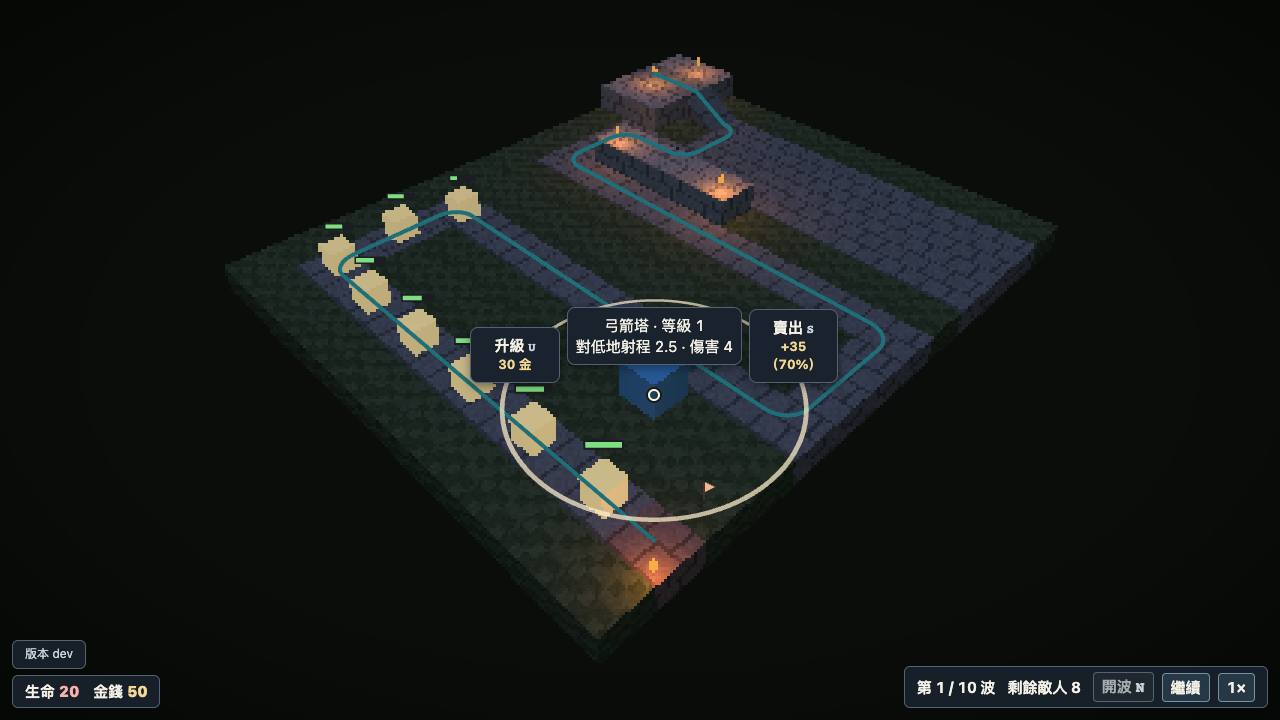
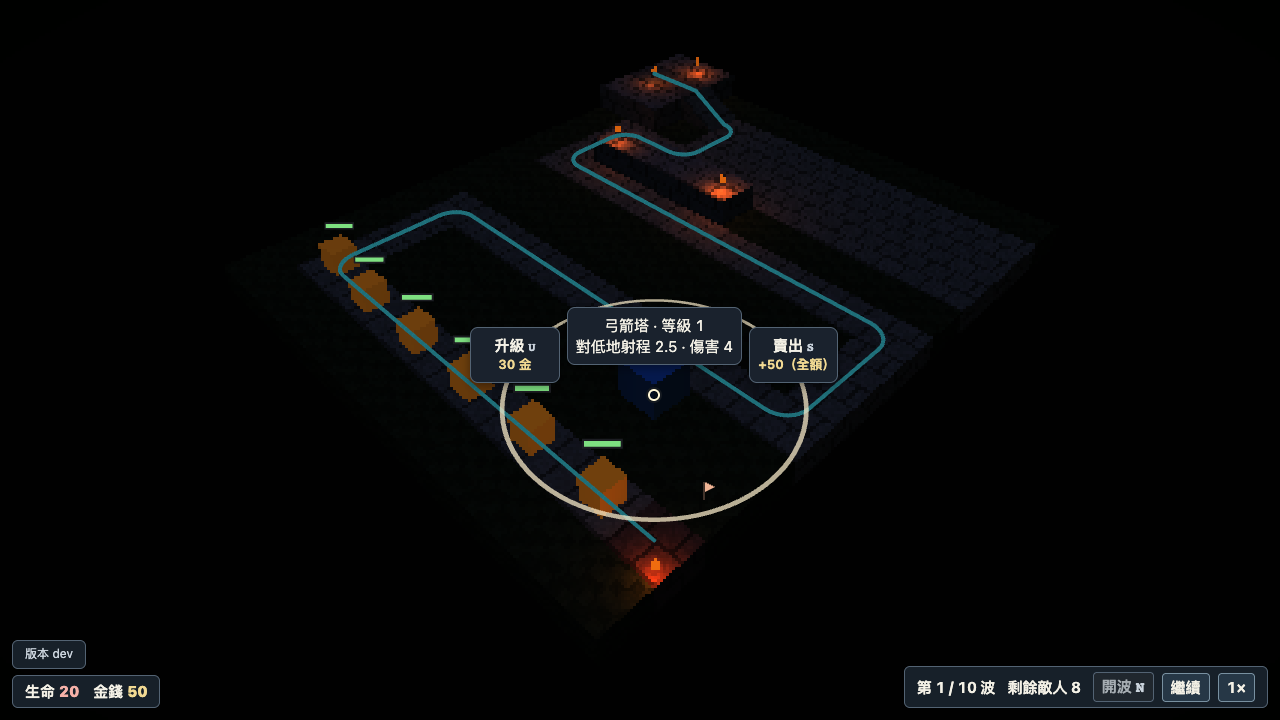
fix: [ render ] 校正世界像素格與冷暗色調
以 3 CSS px 取樣世界層，裁切右側和底部的部分像素格，讓全解析度覆蓋層沿用原投影。恢復原型 D 的世界合成曲線並微調石地與骷髏兵，讓 1280×720 截圖貼近目標。敵人外觀共用發光色表，波次提示與敗北原因採用詞彙表名稱。

通過 lint、型別檢查、規則與平衡測試、production build 及四項瀏覽器測試。像素格與亮度回歸涵蓋 1280×721 的 DPR 1、2。關閉閃白混色時，受擊回歸測試會失敗。

Changed region(s): [[0.1562, 0.0611, 0.8438, 0.8861]]

diff --git a/src/render/pixel-renderer.ts b/src/render/pixel-renderer.ts
@@ -1,5 +1,6 @@
 import {
   type Camera,
+  Matrix4,
   Mesh,
   NearestFilter,
   OrthographicCamera,
@@ -22,10 +23,19 @@ export function createPixelRenderer(renderer: WebGLRenderer, scene: Scene, camer
     colorSpace: SRGBColorSpace,
   });
   const worldSize = new Vector2(1, 1);
+  const cssSize = new Vector2(1, 1);
+  const worldFrame = new Matrix4();
+  const projection = new Matrix4();
+  const inverseProjection = new Matrix4();
   const screen = new Mesh(
     new PlaneGeometry(2, 2),
     new ShaderMaterial({
-      uniforms: { world: { value: world.texture }, worldSize: { value: worldSize } },
+      uniforms: {
+        world: { value: world.texture },
+        worldSize: { value: worldSize },
+        cssSize: { value: cssSize },
+        pixelSize: { value: PIXEL_SIZE },
+      },
       vertexShader: `
         varying vec2 screenUv;
         void main() {
@@ -36,14 +46,18 @@ export function createPixelRenderer(renderer: WebGLRenderer, scene: Scene, camer
       fragmentShader: `
         uniform sampler2D world;
         uniform vec2 worldSize;
+        uniform vec2 cssSize;
+        uniform float pixelSize;
         varying vec2 screenUv;
         void main() {
           // Evaluate the vignette at the world texel center so it shares the pixel grid.
-          vec2 pixelUv = (floor(screenUv * worldSize) + 0.5) / worldSize;
+          vec2 cssPosition = vec2(screenUv.x, 1.0 - screenUv.y) * cssSize;
+          vec2 pixelUv = (floor(cssPosition / pixelSize) + 0.5) / worldSize;
+          pixelUv.y = 1.0 - pixelUv.y;
           vec4 color = texture2D(world, pixelUv);
           float edge = smoothstep(0.35, 0.85, distance(pixelUv, vec2(0.5)));
+          // Variant D uses linear world values as display values for its dark grade.
           gl_FragColor = vec4(color.rgb * (1.0 - edge * 0.55), color.a);
-          #include <colorspace_fragment>
         }
       `,
       depthTest: false,
@@ -54,10 +68,17 @@ export function createPixelRenderer(renderer: WebGLRenderer, scene: Scene, camer
   const screenCamera = new OrthographicCamera();
 
   function resize(cssWidth: number, cssHeight: number): void {
-    const width = Math.max(1, Math.floor(cssWidth / PIXEL_SIZE));
-    const height = Math.max(1, Math.floor(cssHeight / PIXEL_SIZE));
+    cssSize.set(Math.max(1, cssWidth), Math.max(1, cssHeight));
+    const width = Math.ceil(cssSize.x / PIXEL_SIZE);
+    const height = Math.ceil(cssSize.y / PIXEL_SIZE);
     worldSize.set(width, height);
     world.setSize(width, height);
+
+    // Pad the right and bottom to whole texels. Keep the visible projection aligned
+    // with the overlay camera when the blit crops those partial blocks.
+    const scaleX = cssSize.x / (width * PIXEL_SIZE);
+    const scaleY = cssSize.y / (height * PIXEL_SIZE);
+    worldFrame.makeScale(scaleX, scaleY, 1).setPosition(scaleX - 1, 1 - scaleY, 0);
   }
 
   function render(): void {
@@ -68,7 +89,16 @@ export function createPixelRenderer(renderer: WebGLRenderer, scene: Scene, camer
     try {
       camera.layers.set(WORLD_LAYER);
       renderer.setRenderTarget(world);
-      renderer.render(scene, camera);
+      projection.copy(camera.projectionMatrix);
+      inverseProjection.copy(camera.projectionMatrixInverse);
+      camera.projectionMatrix.premultiply(worldFrame);
+      camera.projectionMatrixInverse.copy(camera.projectionMatrix).invert();
+      try {
+        renderer.render(scene, camera);
+      } finally {
+        camera.projectionMatrix.copy(projection);
+        camera.projectionMatrixInverse.copy(inverseProjection);
+      }
 
       renderer.setRenderTarget(null);
       renderer.render(screen, screenCamera);

diff --git a/tests/pixel-rendering.test.ts b/tests/pixel-rendering.test.ts
@@ -2,14 +2,14 @@ import { expect, test } from '@playwright/test';
 
 for (const dpr of [1, 2]) {
   test.describe(`DPR ${dpr}`, () => {
-    test.use({ deviceScaleFactor: dpr, viewport: { width: 1200, height: 720 } });
+    test.use({ deviceScaleFactor: dpr, viewport: { width: 1280, height: 721 } });
 
-    test('renders the world on a 3 CSS pixel grid', async ({ page }) => {
+    test('renders the cool, dark world on a 3 CSS pixel grid', async ({ page }) => {
       await page.goto('./');
       await page.getByRole('button', { name: '開始遊戲' }).click();
 
-      // The left edge of the board crosses this region without any overlay geometry.
-      const screenshot = await page.screenshot({ clip: { x: 180, y: 240, width: 60, height: 90 } });
+      // Sample the high platform where no overlay geometry crosses it.
+      const screenshot = await page.screenshot({ clip: { x: 840, y: 204, width: 60, height: 30 } });
       const sample = await page.evaluate(
         async ({ png, blockSize }) => {
           const image = await createImageBitmap(
@@ -20,27 +20,41 @@ for (const dpr of [1, 2]) {
           if (context === null) throw new Error('Could not read the game screenshot');
           context.drawImage(image, 0, 0);
           image.close();
-          const pixels = new Uint32Array(context.getImageData(0, 0, width, height).data.buffer);
+          const { data } = context.getImageData(0, 0, width, height);
+          const pixels = new Uint32Array(data.buffer);
+          const luminance: number[] = [];
           const colors = new Set<number>();
           let nonUniformPixels = 0;
           for (let y = 0; y < height; y++) {
             const blockY = y - (y % blockSize);
             for (let x = 0; x < width; x++) {
               const blockX = x - (x % blockSize);
-              const color = pixels[y * width + x] ?? 0;
+              const index = y * width + x;
+              const color = pixels[index] ?? 0;
+              const offset = index * 4;
+              luminance.push(
+                0.2126 * (data[offset] ?? 0) +
+                  0.7152 * (data[offset + 1] ?? 0) +
+                  0.0722 * (data[offset + 2] ?? 0),
+              );
               colors.add(color);
               if (color !== pixels[blockY * width + blockX]) nonUniformPixels++;
             }
           }
-          return { colors: colors.size, nonUniformPixels, width, height };
+          luminance.sort((a, b) => a - b);
+          const medianLuminance = luminance[Math.floor(luminance.length / 2)] ?? 0;
+          return { colors: colors.size, nonUniformPixels, width, height, medianLuminance };
         },
         { png: [...screenshot], blockSize: 3 * dpr },
       );
 
       expect(sample.width).toBe(60 * dpr);
-      expect(sample.height).toBe(90 * dpr);
+      expect(sample.height).toBe(30 * dpr);
       expect(sample.colors).toBeGreaterThanOrEqual(3);
       expect(sample.nonUniformPixels).toBe(0);
+      // Variant D's reference platform has a median luminance of about 17 out of 255.
+      expect(sample.medianLuminance).toBeGreaterThan(8);
+      expect(sample.medianLuminance).toBeLessThan(30);
     });
   });
 }

diff --git a/src/render/enemies.ts b/src/render/enemies.ts
@@ -33,23 +33,18 @@ import { LAYER_HEIGHT } from './terrain';
 
 interface Look {
   readonly size: number;
+  readonly glowColor: number;
   readonly round?: true;
   readonly cornerCut?: number;
 }
 
-const LOOKS: Readonly<Record<string, Look>> = {
-  grunt: { size: 0.5 },
-  runner: { size: 0.4 },
-  tank: { size: 0.8, cornerCut: 0.1 },
-  boss: { size: 1, round: true },
-};
-const DEFAULT_LOOK: Look = { size: 0.5 };
-const GLOW_COLORS: ReadonlyMap<string, number> = new Map([
-  ['grunt', 0xffe7a4],
-  ['runner', 0xb5ec69],
-  ['tank', 0xffad73],
-  ['boss', 0xf37b55],
+const LOOKS: ReadonlyMap<string, Look> = new Map([
+  ['grunt', { size: 0.5, glowColor: 0xe0ac4f }],
+  ['runner', { size: 0.4, glowColor: 0xb5ec69 }],
+  ['tank', { size: 0.8, glowColor: 0xffad73, cornerCut: 0.1 }],
+  ['boss', { size: 1, glowColor: 0xf37b55, round: true }],
 ]);
+const DEFAULT_LOOK: Look = { size: 0.5, glowColor: 0xbbbbbb };
 const GLOW_INTENSITY = 0.55;
 const WHITE = new Color(0xffffff);
 const UP = new Vector3(0, 1, 0);
@@ -58,11 +53,11 @@ const BAR_HEIGHT = 0.14;
 const BAR_GAP = 0.08;
 
 function enemyLook(kind: string): Look {
-  return LOOKS[kind] ?? DEFAULT_LOOK;
+  return LOOKS.get(kind) ?? DEFAULT_LOOK;
 }
 
 export function enemyGlowColor(kind: string): number {
-  return GLOW_COLORS.get(kind) ?? 0xbbbbbb;
+  return enemyLook(kind).glowColor;
 }
 
 function enemyGeometry({ size, cornerCut, round }: Look): BufferGeometry {
@@ -293,7 +288,7 @@ export function createEnemyLayer(camera: Camera): EnemyLayer {
       const look = enemyLook(enemy.kind);
       const view = viewFor(enemy.id, look);
       const flash = hitFlash?.(enemy.id) ?? 0;
-      const glow = enemyGlowColor(enemy.kind);
+      const glow = look.glowColor;
       view.body.material.color.setHex(glow).multiplyScalar(0.36).lerp(WHITE, flash);
       view.body.material.emissive.setHex(glow).lerp(WHITE, flash);
       view.body.material.emissiveIntensity = GLOW_INTENSITY;

diff --git a/src/render/enemies.test.ts b/src/render/enemies.test.ts
@@ -1,4 +1,4 @@
-import { Mesh, PerspectiveCamera, Vector3 } from 'three';
+import { Mesh, MeshLambertMaterial, PerspectiveCamera, Vector3 } from 'three';
 import { expect, it } from 'vitest';
 import { level } from '../content/level';
 import {
@@ -155,13 +155,26 @@ it('sets the bottom of the enemy on the ramp at its rounded position', () => {
 it('keeps a flashing enemy in the world and both parts of its health bar on the overlay', () => {
   const state = start(['S=G']);
   const layer = createEnemyLayer(new PerspectiveCamera());
-  layer.update(state, state, 1, () => 0.5);
+  layer.update(state, state, 1);
 
   const [body, bar] = layer.group.children[0]?.children ?? [];
-  if (!(body instanceof Mesh)) throw new Error('Missing flashing enemy');
-  expect(body.material.emissiveIntensity).toBeGreaterThan(0);
+  if (!(body instanceof Mesh) || !(body.material instanceof MeshLambertMaterial)) {
+    throw new Error('Missing flashing enemy');
+  }
+  const material = body.material;
+  const baseColor = material.color.clone();
+  const baseGlow = material.emissive.clone();
+
+  layer.update(state, state, 1, () => 0.5);
+
+  expect(material.color.b).toBeGreaterThan(baseColor.b);
+  expect(material.emissive.b).toBeGreaterThan(baseGlow.b);
   expect(body.layers.mask).toBe(1);
   expect(bar?.children.map((part) => part.layers.mask)).toEqual([2, 2]);
+
+  layer.update(state, state, 1);
+  expect(material.color).toEqual(baseColor);
+  expect(material.emissive).toEqual(baseGlow);
 });
 
 it('draws the tank health bar above its silhouette on the ramp', () => {

diff --git a/src/render/wave-hud.ts b/src/render/wave-hud.ts
@@ -12,10 +12,10 @@ import { cellProjection, element, isGameDialogOpen, updateText } from './hud-dom
 import { createSurveyUrl, PLAYTEST_SURVEY_URL_TEMPLATE } from './survey';
 
 const ENEMY_NAMES: Readonly<Record<string, string>> = {
-  grunt: '雜兵',
-  runner: '快兵',
-  tank: '坦克',
-  boss: 'Boss',
+  grunt: '骷髏兵',
+  runner: '食屍鬼',
+  tank: '骷髏騎士',
+  boss: '巫妖',
 };
 
 const WAVE_REJECTIONS = {
@@ -192,7 +192,8 @@ export function createWaveHud(canvas: HTMLCanvasElement, camera: Camera, actions
         if (state.phase === 'victory') {
           updateText(resultDetail, `剩餘生命 ${state.lives}`);
         } else {
-          const reason = state.defeatReason === 'bossLeaked' ? 'Boss 抵達城堡' : '生命歸零';
+          const reason =
+            state.defeatReason === 'bossLeaked' ? `${ENEMY_NAMES.boss}抵達城堡` : '生命歸零';
           updateText(resultDetail, `${reason}，撐到${waveLabel}`);
         }
         surveyLink.href = createSurveyUrl(

diff --git a/tests/production.test.ts b/tests/production.test.ts
@@ -84,6 +84,7 @@ test('builds a tower and renders an enemy in the production game', async ({ page
   await page.keyboard.press('Escape');
 
   const waveControls = page.getByRole('region', { name: '波次與時間控制' });
+  await expect(waveControls.getByText('骷髏兵 ×8', { exact: true })).toBeVisible();
   // While paused, starting the wave spawns its first enemy without advancing the world.
   await waveControls.getByRole('button', { name: '暫停' }).click();
   await expect(waveControls.getByRole('button', { name: '繼續' })).toBeVisible();

diff --git a/src/render/combat-feedback.test.ts b/src/render/combat-feedback.test.ts
@@ -93,7 +93,7 @@ it('keeps all six death fragments on the world layer', () => {
 });
 
 it.each([
-  ['grunt', 0xffe7a4],
+  ['grunt', 0xe0ac4f],
   ['runner', 0xb5ec69],
   ['tank', 0xffad73],
   ['boss', 0xf37b55],

diff --git a/src/render/terrain.ts b/src/render/terrain.ts
@@ -18,7 +18,7 @@ export const LAYER_HEIGHT = 0.6;
 const COLOURS = {
   low: 0x5f774a,
   high: 0xabaeba,
-  laneLow: 0x878997,
+  laneLow: 0xc0b1a0,
   laneHigh: 0x9194a3,
   spawn: 0xad6158,
   goal: 0x648bb4,
